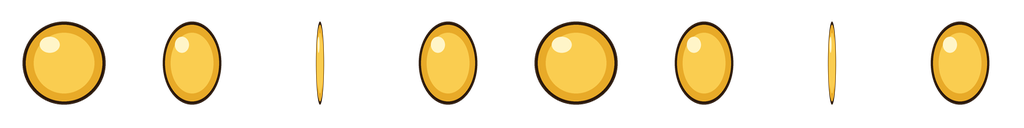
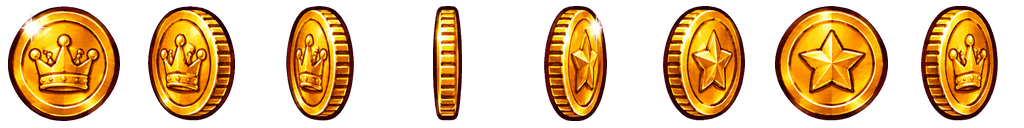
Gold drops: GPT's 8-frame spinning coin
Claude-Session: https://claude.ai/code/session_01L1uDDec2PRhRRuGiNU2YTw

diff --git a/tools/items/loot.py b/tools/items/loot.py
@@ -1,5 +1,5 @@
 # loot.py : the loot sheet from GPT (red potion, blue potion, a few coins, a coin pile on magenta) -> the item icons.
-#   in : tools/items/loot_gpt.png, items_gpt.png (food, scroll, buffs, elixir, materials)     out: public/assets/final/items/<id>.png (128 px)
+#   in : tools/items/loot_gpt.png, items_gpt.png (food, scroll, buffs, elixir, materials), coin_gpt.png (8-frame coin spin -> coin_spin.png)     out: public/assets/final/items/<id>.png (128 px)
 import numpy as np
 from PIL import Image
 from scipy import ndimage as nd
@@ -34,3 +34,21 @@ def save(sheet, cols, rows, names):
 
 save(key(R + 'tools/items/loot_gpt.png'), 4, 1, ['red_potion', 'blue_potion', 'gold_small', 'gold_big'])
 save(key(R + 'tools/items/items_gpt.png'), 5, 2, ['apple', 'meat', 'orange', 'cake', 'return_scroll', 'warrior_potion', 'swift_potion', 'elixir', 'rust_shard', 'cursed_cloth'])
+
+# the spinning coin (8 frames, one scale for all: the turn stays true)
+cs = key(R + 'tools/items/coin_gpt.png'); A = np.asarray(cs)[..., 3]
+lab, k = nd.label(nd.binary_dilation(A > 128, iterations=4))   # each coin (with its glint) is one blob; left to right
+objs = sorted([o for o in nd.find_objects(lab) if (o[1].stop - o[1].start) * (o[0].stop - o[0].start) > 2000], key=lambda o: o[1].start)
+assert len(objs) == 8, len(objs)
+frames = []
+for o in objs:
+  c = cs.crop((o[1].start, 0, o[1].stop, cs.height)); al = np.asarray(c)[..., 3]
+  m = lab[:, o[1].start:o[1].stop] == lab[o][lab[o] > 0][0]; al = np.where(m, al, 0)
+  c.putalpha(Image.fromarray(al.astype(np.uint8))); frames.append(c)
+bbs = [f.getbbox() for f in frames]; top = min(b[1] for b in bbs); bot = max(b[3] for b in bbs); s = 128 * 0.9 / (bot - top)
+sheet = Image.new('RGBA', (128 * 8, 128))
+for i, (f, b) in enumerate(zip(frames, bbs)):
+  g = f.crop((b[0], top, b[2], bot)); g = g.resize((max(1, round(g.width * s)), round(g.height * s)), Image.LANCZOS)
+  sheet.alpha_composite(g, (i * 128 + (128 - g.width) // 2, (128 - g.height) // 2))
+sheet.save(R + 'public/assets/final/items/coin_spin.png', optimize=True)
+print('coin_spin', [f.getbbox()[2] - f.getbbox()[0] for f in frames])
